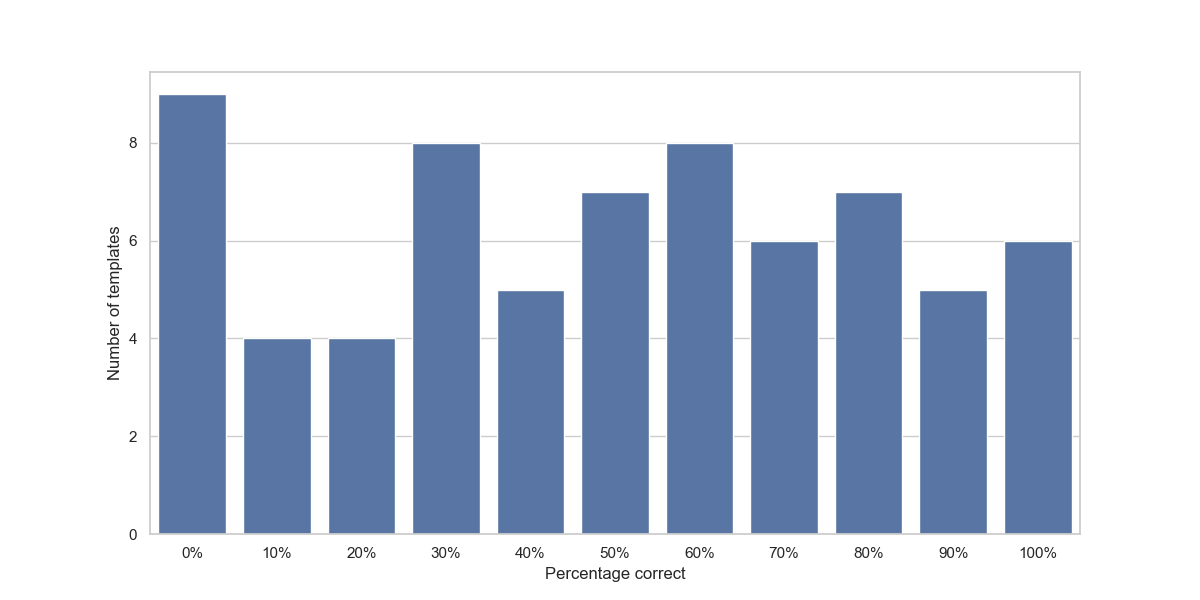
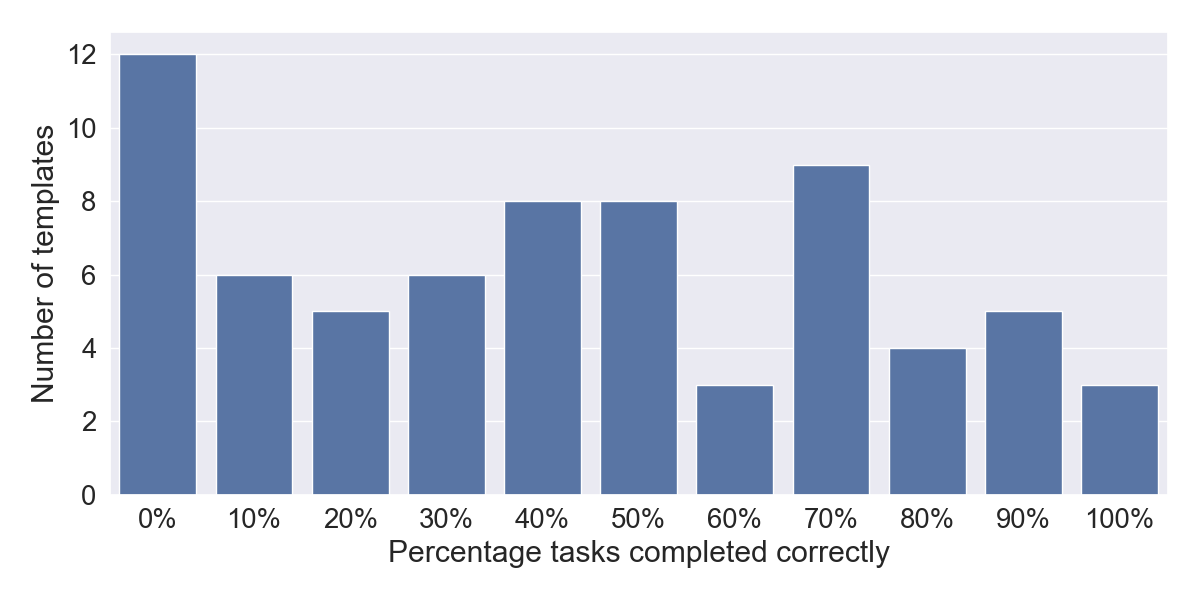
update template dependance plot

Changed region(s): [[0.0308, 0.06, 0.9867, 0.99]]

diff --git a/scripts/plotting/plot_errors_per_template.py b/scripts/plotting/plot_errors_per_template.py
@@ -49,11 +49,15 @@ percentage_correct_df = pd.DataFrame(precentage_correct, columns=["percentage_co
 percentage_correct_df["count"] = 1
 percentage_correct_df = percentage_correct_df.groupby("percentage_correct").count().reset_index()
 
-sns.set_theme(style="whitegrid")
+
+# increase fontsize
+sns.set(font_scale=1.8)
+
 plt.figure(figsize=(12, 6))
 ax = sns.barplot(x="percentage_correct", y="count", data=percentage_correct_df)
-ax.set(xlabel="Percentage correct", ylabel="Number of templates")
+ax.set(xlabel="Percentage tasks completed correctly", ylabel="Number of templates")
 ax.set_xticklabels([f"{x}%" for x in range(0, 200, 10)])
+plt.tight_layout()
 
 
 plt.savefig("data/plots/percentage_correct_per_template.png")
